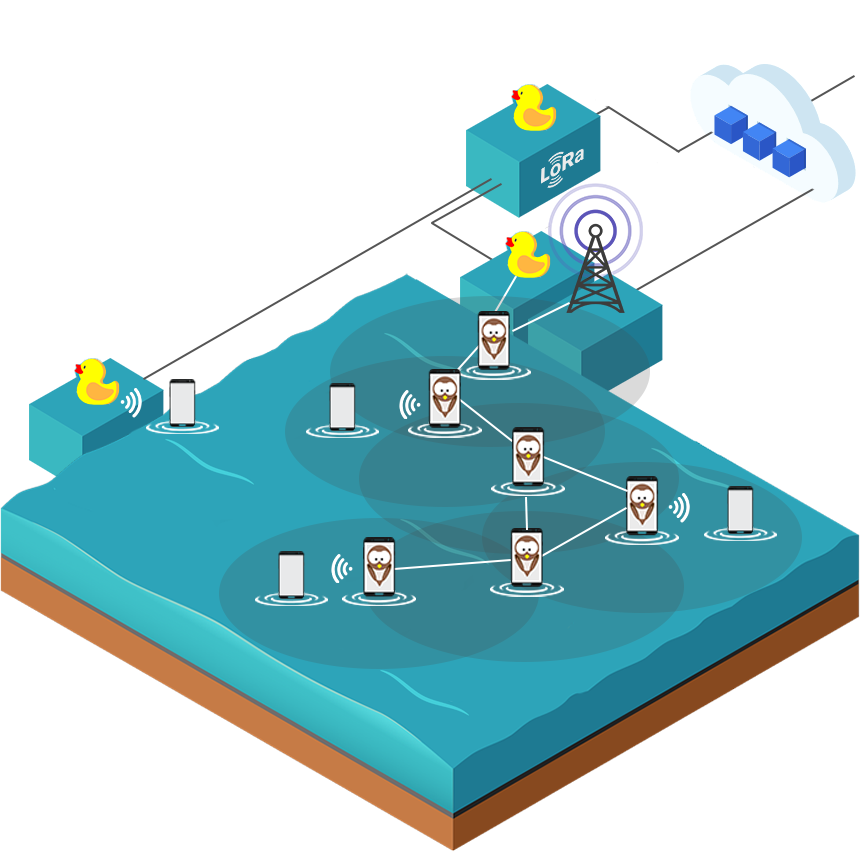
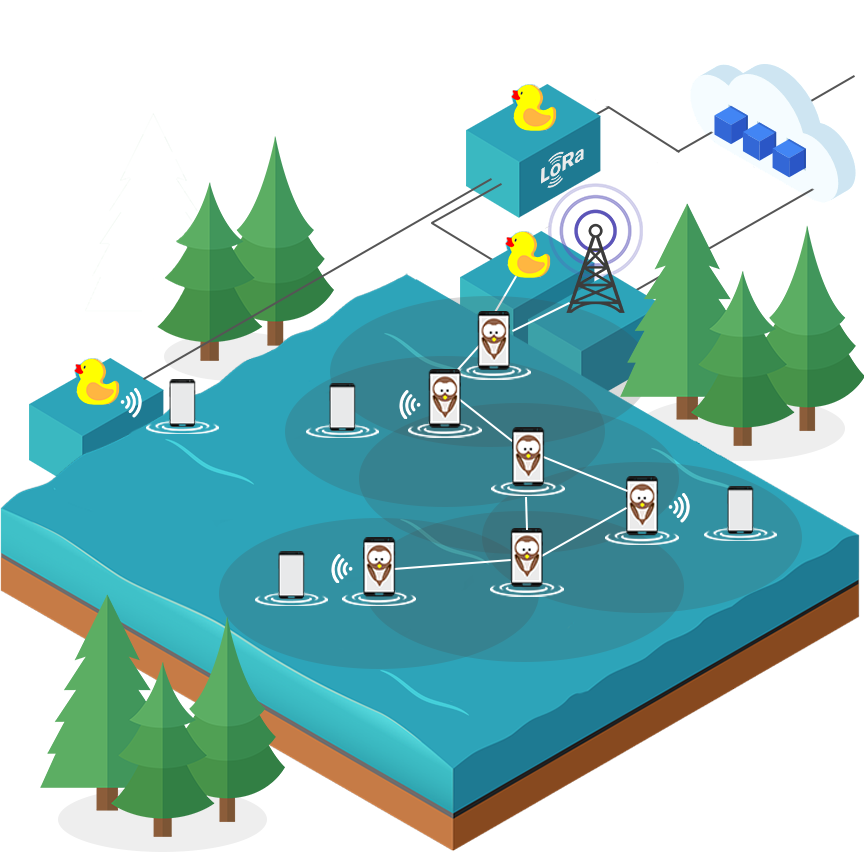
Added grenery to images

Changed region(s): [[0.7188, 0.2188, 1.0, 0.5312], [0.0312, 0.6875, 0.3438, 0.9688], [0.1875, 0.1562, 0.4062, 0.4375]]

diff --git a/sparrowNet.html b/sparrowNet.html
@@ -92,7 +92,7 @@
             <div class="row">
                 <div class="col s12 m12 l12 center">
                     <div class="row center">
-                        <img class="col s12 l6 m6 offset-l3 offset-m3" src="images/sparrow/netOverview.png" alt="Sparrow"    />
+                        <img class="col s12 l6 m8 offset-l3 offset-m2" src="images/sparrow/netOverview.png" alt="Sparrow"    />
                         
                         <h5 class="col s12 cyan-text text-darken-4">Sparrow Net</h4>
                         <h6 class="col s12 m8 offset-m2 l6 offset-l3 text-darken-4 blue-grey-text">
@@ -174,29 +174,21 @@
 <div class="white valign-wrapper" style="padding-top:5vh; padding-bottom: 10vh">
 <div class="container">
     <h4 class="center cyan-text text-darken-4">
-        The solution
+        The Solution
     </h4>
 
-    <!-- <div class="row ">
-        <img class="col s12 l8 offset-l2 m8 offset-m2" src="images/sparrow/netOverview.png"  >
-    </div> -->
  
-<!-- 
-    <h6  >
-        SparrowNet is a combination of muliple network stack applications that enables disaster victims to reach help.
-        <br>
-    </h6> -->
+    <h5 class="cyan-text center text-darken-4 ">"Uber for telemedicine during disasters"</h5> 
 
-    <h6><b class=" cyan-text text-darken-4">Disaster victims and medical workers</b> <br>
-        Can reach medical expertise through any available online / offline communication interfaces (<a class="cyan-text  text-darken-4" href="#connectivity" ><b>Read more</b></a>)
-        <br>
-        <br>
-        <b class=" cyan-text text-darken-4">Medical experts / Community members </b> <br>
+    <h6><h5 class=" cyan-text text-darken-4">Disaster victims and medical workers</h5> 
+        Can reach medical expertise through any available online / offline communication interfaces (<a class="light-blue-text  text-darken-5" href="#connectivity" ><span>Read more</span></a>)
+         
+        <h5 class=" cyan-text text-darken-4">Medical experts / Community members </h5> 
         Can signup through any available social medial platform or messging application 
         (Whatsapp, FB Messenger, SMS, WeChat, Hangouts, etc). 
         SparrowNet will verify the credentials of the individual who signed-up and determine expertise level and field. 
-        <br><br>
-        <b class=" cyan-text text-darken-4">How does SparrowNet connect them?</b><br>
+         
+        <h5 class=" cyan-text text-darken-4">How does SparrowNet connect them?</h5>
         SparrowNet takes messages comming from disaster victims, recognizes the type of help the victim needs using NLP and matches the victim to relevant medical experts.
         <br>
         The victim need not be on the same communiucation platform or in vicinity of the medical expert. 
@@ -223,6 +215,9 @@
 <!------------------------------------Connectivity scenario--------------------------------->  
 <div id="connectivity" class=" grey lighten-3 valign-wrapper" style="padding-top:5vh; padding-bottom:8vh">
     <div class="container">
+
+        <h6 >
+
         <h4 class="row center cyan-text text-darken-4">
             Disaster victims and medical workers
         </h4>
@@ -231,13 +226,10 @@
              1. Communication when traditional network is available 
         </h5>
 
-        
-
-        <h6 class="black-text">
-            Talk to a medical expert anytime anywhere through chat interface accessible through <b class="cyan-text text-darken-4">Any major chat apps</b><br> 
+            Talk to a medical expert anytime anywhere through chat interface accessible through <span class="cyan-text text-darken-4">ANY MAJOR CHAT APP</span><br> 
             Reach out to sparrow through platform of your choice. SparrowNets routes you to available experts who can answer your queries. <br>
             Experts are allocated intelligently based on location (city, country), language, type of query, etc.<br><br><br>
-            <b class="cyan-text  text-darken-4 ">"Uber for medical advice during disasters"</b><br> 
+            
             You need not be connected to the medical expert before-hand and the medical expert need not be using same platform as you.<br>
             SparrowNet is end-to-end secure and you can choose to be anonymous!<br>
             Sharing media is supported! <span class="black-text">(If the messaging platform supports media sharing)</span>
@@ -255,25 +247,28 @@
 
 <div id="connectivity" class="white lighten-3 valign-wrapper" style="padding-top:5vh; padding-bottom: 5vh">
 <div class="container hide-on-large-only">
+        <h6>
         <h5 class="cyan-text text-darken-4">
              2. Communication when traditional network is un-available 
         </h5>
-        <h6>
-            SparrowNet ensures connectivity even when traditional networks are unavailable through a combination of two 'Mesh networks'
+
+        SparrowNet ensures connectivity even when traditional networks are unavailable through a combination of two 'Mesh networks'
         </h6>
+
         <div class="row">
-            <img class="col s12 l7 offset-l2 m8 offset-m2" src="images/sparrow/SparrowMesh.png"  >
+            <img class="col s12 l7 hide-on-small-only offset-l2 m10 offset-m1" src="images/sparrow/SparrowMesh.png"  >
         </div>
         
 </div>
 
+
 <div class="container hide-on-med-and-down">
         <div class="row valign-wrapper">
             <div class="col l6">
+                <h6>
                 <h5 class="cyan-text text-darken-4">
                     2. Communication when traditional network is un-available 
                 </h5>
-                <h6>
                     SparrowNet ensures connectivity even when traditional networks are unavailable through a combination of two 'Mesh networks'
                 </h6>
             </div>
@@ -293,17 +288,17 @@
 
 <div id="connectivity" class=" grey lighten-3 valign-wrapper" style="padding-top:5vh; padding-bottom: 5vh">
 <div class="container hide-on-large-only">
-    <h6 class="black-text">
-        <b class="cyan-text text-darken-4">LoRa based mesh - Sparrow platform 
-        <span><i class="red-text center valign-wrapper material-icons">favorite</i></span>Project owl</b> 
+    <h6>
+        <h5 class="cyan-text text-darken-4">LoRa based mesh - Sparrow platform 
+        <span><i class="red-text center valign-wrapper material-icons">favorite</i></span> Project owl</h5> 
         <a class="black-text text-darken-4" href="http://www.project-owl.com">(Visit website)</a><br>
         Project Owl's clusterduck network eables communication during disasters using a LoRa based mesh.
-        <br>Disaster victims can connect to Wifi available through 'ducks' to send information to the world.
+        Disaster victims can connect to Wifi available through 'ducks' to send information to the world.
         <br> <br>Clusterduck in it's current form does not support bi-directional communication. We modified Clusterduck to achieve 2 way communication in order to make sparrowNet accessible through project owl.
         
 
         <div class="row" style="padding-top:8vh;">
-            <img class="col s12 l6 offset-l3 m8 offset-m2  " src="images/sparrow/clusterDuck.png"  >
+            <img class="col s12 l6 offset-l3 m10 offset-m1  " src="images/sparrow/clusterDuck.png"  >
         </div>
     </h6>
 </div>
@@ -314,12 +309,12 @@
         <img class="col l6" src="images/sparrow/clusterDuck.png"  >
 
         <div class="col l6">
-            <h6 class=" black-text">
-                <b class="cyan-text text-darken-4">LoRa based mesh - Sparrow platform 
-                <span><i class="red-text center valign-wrapper material-icons">favorite</i></span>Project owl</b> 
+            <h6 >
+                <h5 class="cyan-text text-darken-4">LoRa based mesh - Sparrow platform 
+                <span><i class="red-text center valign-wrapper material-icons">favorite</i></span> Project owl</h5> 
                 <a class="black-text text-darken-4" href="http://www.project-owl.com">(Visit website)</a><br>
                 Project Owl's clusterduck network eables communication during disasters using a LoRa based mesh.
-                <br>Disaster victims can connect to Wifi available through 'ducks' to send information to the world.
+                Disaster victims can connect to Wifi available through 'ducks' to send information to the world.
                 <br> <br>Clusterduck in it's current form does not support bi-directional communication. We modified Clusterduck to achieve 2 way communication in order to make sparrowNet accessible through project owl.
             </h6>
         </div>
@@ -341,14 +336,14 @@
     <div class="container hide-on-large-only">        
         <h6>
 
-            <b class="cyan-text text-darken-4">SparrowMesh</b><br>
+            <h5 class="cyan-text text-darken-4">SparrowMesh</h5> 
             SparrowMesh is a smartphone based P2P Ah-hoc mesh network based on smartphones.<br>
             It uses Wifi, Bluetooth, BLE, Sound (Every available communication radio) on smartphones for transfering data.
             <br><br>
             Though the primary motive of SparrowMesh is to connect disaster victims to SparrowNet (Internet), sparrowMesh also enables communication between local-communities.
          
             <div class="  row" style="padding-top:8vh;">
-                <img class="col s12 l8 offset-l2 m8 offset-m2" src="images/sparrow/SparrowMeshP2P.png"  >
+                <img class="col s12 l8 offset-l2 m10 offset-m1" src="images/sparrow/SparrowMeshP2P.png"  >
             </div>
             
         </h6>
@@ -358,7 +353,7 @@
         <div class="row valign-wrapper">
             <div class="col l6">
                 <h6>
-                    <b class="cyan-text text-darken-4">SparrowMesh</b><br>
+                    <h5 class="cyan-text text-darken-4">SparrowMesh</h5> 
                     SparrowMesh is a smartphone based P2P Ah-hoc mesh network based on smartphones.<br>
                     It uses Wifi, Bluetooth, BLE, Sound (Every available communication radio) on smartphones for transfering data.
                     <br><br>
@@ -380,29 +375,55 @@
 
 
 <div id="connectivity" class="grey  lighten-3 valign-wrapper" style="padding-top:5vh; padding-bottom: 5vh">
-        <div class="container">        
+        <div class="container hide-on-large-only">        
             <h6 class="black-text">
     
-                <b class="cyan-text text-darken-4"></b><br>
+                <h5 class="cyan-text text-darken-4"></h5><br>
                 SparrowMesh is built for offline first communication. Nodes in SparrowNet (Smartphones i.e users) can move around, carrying data with them.
-                <br><br>
+                <br> 
                 Disaster victims can communicate with community around them, and broadcast updates regarding their health and well-being over SparrowNet. 
                 <br>
                 Tracking family members is often a major challenge in non-internet situations. 
                 SparrowMesh enables communications where traditional networks and fixed mesh networks (Like Project Owl) fail.
                 <div class=" row" >
-                    <img class="col s12 l7 offset-l2 m6 offset-m3 " src="images/sparrow/How-mesh-worksSmall.png"  >
+                    <img class="col s12 l7 offset-l2 m8 offset-m2 " src="images/sparrow/How-mesh-works.png"  >
                     
                 </div>
                 
                 
             </h6>
         </div>
+
+        <div class="container hide-on-med-and-down valign-wrapper">      
+            <div class="row">
+                <div class="col l6">
+                    <h6 class="black-text">
+
+                        <h5 class="cyan-text text-darken-4"></h5><br>
+                        SparrowMesh is built for offline first communication. Nodes in SparrowNet (Smartphones i.e users) can move around, carrying data with them.
+                        <br> 
+                        Disaster victims can communicate with community around them, and broadcast updates regarding their health and well-being over SparrowNet. 
+                        <br>
+                        Tracking family members is often a major challenge in non-internet situations. 
+                        SparrowMesh enables communications where traditional networks and fixed mesh networks (Like Project Owl) fail.
+                                                
+                    </h6>
+                </div>
+                <div class="col l6">
+                    <img class="col s12 l7 offset-l2 m8 offset-m2 " src="images/sparrow/How-mesh-works.png"  >
+                </div>
+            </div>  
+            
+        </div>
+        
     </div>
 
 
 
     
+
+
+
 
 <div id="connectivity" class="white lighten-3 valign-wrapper" style="padding-top:5vh; padding-bottom: 8vh">
     <div class="container">   
